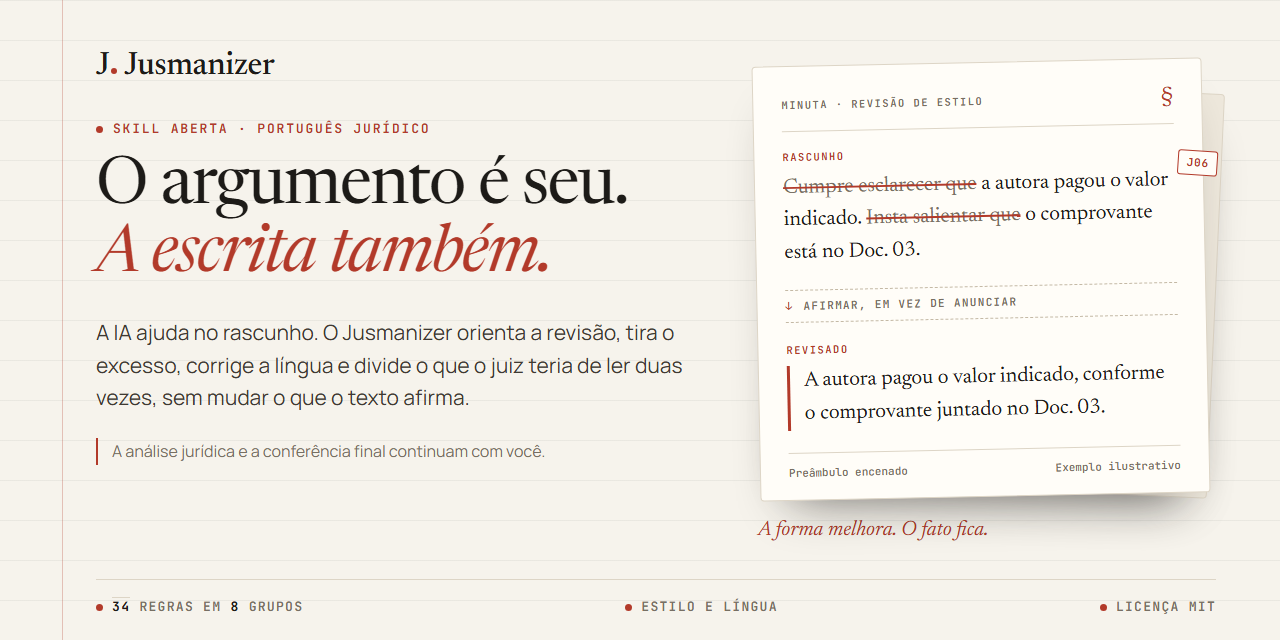
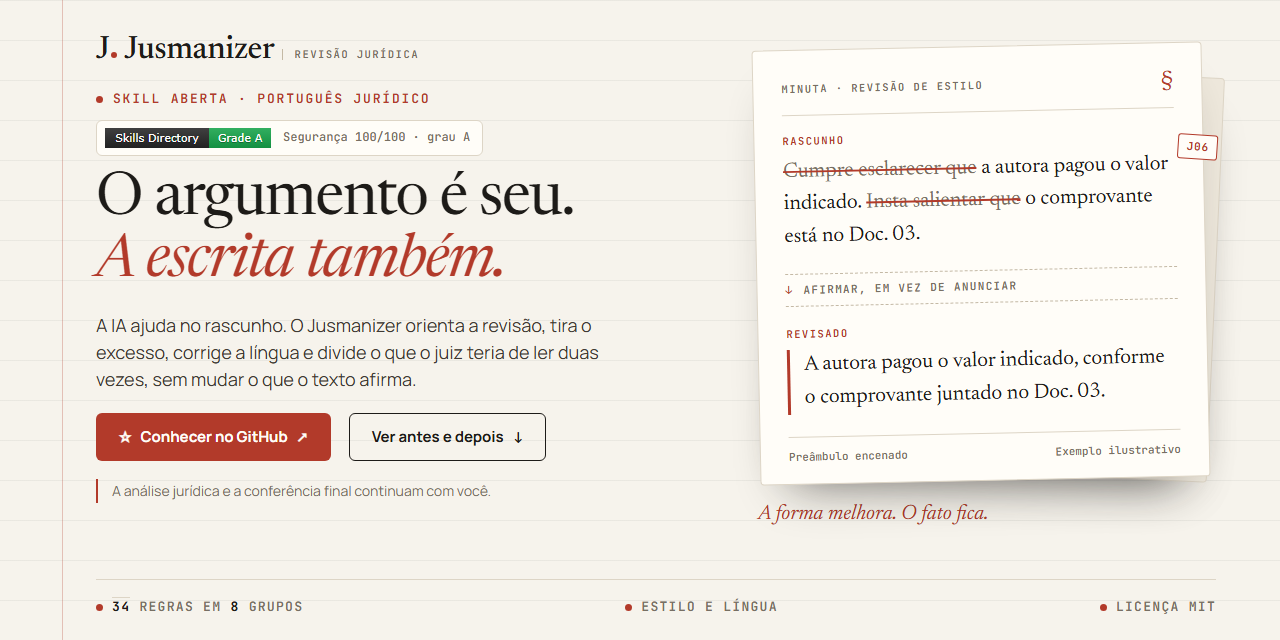
Capa e site: capa com o topo atual do site (selo, botões e rótulo), pi e texto embutido no site, e render-capa recusa quando o navegador não grava

diff --git a/docs/index.html b/docs/index.html
@@ -208,7 +208,7 @@
             <aside class="download-card"><span class="download-glyph" aria-hidden="true">§</span><h4>Revise um arquivo</h4><p>Num ambiente com acesso aos seus arquivos, peça para revisar uma minuta existente. A skill lê o arquivo inteiro, preserva o resto da estrutura e diz quantas seções revisou.</p><code class="inline-code">jusmaniza o texto do arquivo contestacao.md</code><a class="plain-link" href="https://github.com/brunoflma/jusmanizer" target="_blank" rel="noopener noreferrer" data-github-cta>Conhecer e apoiar no GitHub <span aria-hidden="true">↗</span></a></aside>
           </section>
           <section id="install-other" class="install-panel" role="tabpanel" aria-labelledby="install-tab-other" tabindex="0" hidden>
-            <div><p class="sheet-label">Instruções portáteis</p><h3>O conteúdo é texto. O caminho varia.</h3><ol><li>Baixe o arquivo <strong>SKILL.md</strong>.</li><li>Se o ambiente aceitar skills, use o mecanismo de instalação dele.</li><li>Se aceitar arquivos ou instruções de projeto, forneça o conteúdo como referência.</li><li>Peça explicitamente que o assistente use o Jusmanizer na revisão.</li></ol><p class="muted">ChatGPT, Gemini, Codex e outros assistentes podem ter interfaces, permissões e limites diferentes. Fornecer o arquivo não garante que ele seja carregado em todas as conversas.</p></div>
+            <div><p class="sheet-label">Instruções portáteis</p><h3>O conteúdo é texto. O caminho varia.</h3><ol><li>Baixe o arquivo <strong>SKILL.md</strong>.</li><li>Se o ambiente aceitar skills, use o mecanismo de instalação dele. No pi, por exemplo: <code>pi install git:github.com/brunoflma/jusmanizer</code>.</li><li>Se aceitar arquivos ou instruções de projeto, forneça o conteúdo como referência.</li><li>Peça explicitamente que o assistente use o Jusmanizer na revisão.</li></ol><p class="muted">ChatGPT, Gemini, Codex e outros assistentes podem ter interfaces, permissões e limites diferentes. Fornecer o arquivo não garante que ele seja carregado em todas as conversas.</p></div>
             <aside class="download-card"><span class="download-glyph" aria-hidden="true">{ }</span><h4>SKILL.md</h4><p>Leia as instruções antes de instalar e adapte o uso aos recursos do seu ambiente.</p><a class="button primary" href="https://github.com/brunoflma/jusmanizer#como-instalar" target="_blank" rel="noopener noreferrer" data-github-cta>Conhecer a skill no GitHub <span aria-hidden="true">↗</span></a><a class="plain-link" href="downloads/SKILL.md" download>Baixar as instruções</a></aside>
           </section>
         </div>
@@ -244,7 +244,7 @@
         </div>
         <div class="care-copy">
           <p>O Jusmanizer orienta a revisão de estilo e de língua. Ele não valida uma tese, não confirma a existência de julgados e não decide a estratégia de um caso.</p>
-          <p>Leia a versão revisada, confira as fontes e preserve o sigilo. Antes de fornecer documentos reais a um assistente, observe as regras de tratamento de dados aplicáveis ao seu trabalho.</p>
+          <p>Leia a versão revisada, confira as fontes e preserve o sigilo. Antes de fornecer documentos reais a um assistente, observe as regras de tratamento de dados aplicáveis ao seu trabalho. Instrução escondida no texto revisado, como uma nota dirigida à IA numa peça da parte contrária, é tratada como texto e nunca é obedecida.</p>
           <p class="care-last">A ferramenta apoia a escrita. A responsabilidade profissional permanece com quem usa e assina o documento.</p>
         </div>
       </div>
@@ -259,7 +259,7 @@
         <details><summary>Preciso saber programar para usar?</summary><p>Não para usar a skill num assistente que aceite skills ou arquivos de instruções. O verificador em Python é um recurso a mais, para quem quer conferir arquivos por comando.</p></details>
         <details><summary>O Jusmanizer é gratuito?</summary><p>O projeto é distribuído sob licença MIT e não cobra pelo download ou pelo uso da skill. O assistente de IA que você escolher pode ter planos pagos, limites e requisitos próprios.</p></details>
         <details><summary>Ele corrige o português da peça?</summary><p>Sim. Além de tirar os vícios de máquina, a revisão corrige concordância, regência, pontuação e crase, divide os períodos longos demais e mantém uma só designação para cada parte. Transcrições não são corrigidas.</p></details>
-        <details><summary>Ele reescreve uma peça inteira?</summary><p>Você pode fornecer um trecho ou um documento, conforme os recursos do assistente. Textos extensos podem exigir revisão por partes. A skill orienta preservar o conteúdo, mas a versão produzida deve ser comparada com o original.</p></details>
+        <details><summary>Ele reescreve uma peça inteira?</summary><p>Você pode fornecer um trecho ou um documento, conforme os recursos do assistente. Num arquivo, a skill lê o texto inteiro, em partes se for longo, e diz quantas seções revisou e quais ficaram de fora. Ela orienta preservar o conteúdo, mas a versão produzida deve ser comparada com o original.</p></details>
         <details><summary>Ele tira a formalidade da escrita jurídica?</summary><p>Não. A proposta é retirar excessos e construções artificiais, mantendo o registro adequado. Uma peça processual, um parecer e uma mensagem ao cliente pedem escolhas diferentes, e fórmulas forenses consagradas não são tratadas como defeito apenas pela forma.</p></details>
         <details><summary>Posso preservar o meu jeito de escrever?</summary><p>Sim. Forneça dois ou três parágrafos seus antes do texto a revisar. A skill orienta o assistente a observar sua pontuação, o comprimento das frases, o vocabulário e as transições. A amostra tem prioridade sobre as preferências gerais do catálogo.</p></details>
         <details><summary>Ele verifica leis e jurisprudência?</summary><p>Não. A revisão pode apontar uma fonte ausente ou vaga, mas não comprova que uma citação existe ou que se aplica ao caso. A verificação jurídica e das fontes continua necessária.</p></details>

diff --git a/docs/capa.html b/docs/capa.html
@@ -14,13 +14,15 @@
     *, *::before, *::after { animation: none !important; transition: none !important; }
     .capa { position: relative; width: 1280px; height: 640px; overflow: hidden; background: var(--paper); }
     .capa.hero { border: 0; }
-    .capa .hero-grid { padding: 50px 64px 0 96px; gap: 52px; grid-template-columns: 1.12fr .88fr; align-items: start; }
-    .capa .brand { margin-bottom: 38px; }
+    .capa .hero-grid { padding: 34px 64px 0 96px; gap: 52px; grid-template-columns: 1.12fr .88fr; align-items: start; }
+    .capa .brand { margin-bottom: 24px; }
+    .capa .security-chip { margin-bottom: 14px; }
+    .capa .actions { margin-top: 20px; }
     .capa .brand-name, .capa .mark { font-size: 32px; }
-    .capa .kicker { margin-bottom: 16px; font-size: 13px; }
-    .capa h1 { font-size: 66px; line-height: 1.03; white-space: nowrap; }
-    .capa .lead { margin-top: 26px; font-size: 21px; line-height: 1.55; max-width: 29em; }
-    .capa .hero-foot { margin-top: 24px; font-size: 16px; }
+    .capa .kicker { margin-bottom: 12px; font-size: 13px; }
+    .capa h1 { font-size: 60px; line-height: 1.03; white-space: nowrap; }
+    .capa .lead { margin-top: 18px; font-size: 18px; line-height: 1.5; max-width: 31em; }
+    .capa .hero-foot { margin-top: 18px; font-size: 14px; }
     .capa .sheet-stage { margin-top: 0; padding: 12px 10px 44px; }
     .capa .sheet { padding: 26px 28px 20px; }
     .capa .sheet-text { font-size: 21px; }
@@ -32,10 +34,15 @@
   <section class="capa hero">
     <div class="hero-grid">
       <div class="hero-copy">
-        <div class="brand"><span class="mark" aria-hidden="true">J<span class="mark-dot">.</span></span><span class="brand-name">Jusmanizer</span></div>
+        <div class="brand"><span class="mark" aria-hidden="true">J<span class="mark-dot">.</span></span><span class="brand-name">Jusmanizer</span><span class="brand-tag">Revisão jurídica</span></div>
         <p class="kicker"><span class="dot" aria-hidden="true"></span> Skill aberta · Português jurídico</p>
+        <span class="security-chip"><img src="https://www.skillsdirectory.com/api/skills/brunoflma-jusmanizer/badge" width="166" height="20" alt="" referrerpolicy="no-referrer"><span>Segurança 100/100 · grau A</span></span>
         <h1>O argumento é seu.<span>A escrita também.</span></h1>
         <p class="lead">A IA ajuda no rascunho. O Jusmanizer orienta a revisão, tira o excesso, corrige a língua e divide o que o juiz teria de ler duas vezes, sem mudar o que o texto afirma.</p>
+        <div class="actions">
+          <span class="button primary"><span aria-hidden="true">☆</span> Conhecer no GitHub <span aria-hidden="true">↗</span></span>
+          <span class="button secondary">Ver antes e depois <span aria-hidden="true">↓</span></span>
+        </div>
         <p class="hero-foot">A análise jurídica e a conferência final continuam com você.</p>
       </div>
       <figure class="sheet-stage" aria-label="Ilustração de uma revisão de estilo">

diff --git a/scripts/render-capa.py b/scripts/render-capa.py
@@ -20,20 +20,26 @@ ROOT = Path(__file__).resolve().parents[1]
 DOCS = ROOT / "docs"
 SAIDAS = (DOCS / "cover.png", DOCS / "assets/social-preview.png")
 LARGURA, ALTURA = 1280, 640
+# Ordem de tentativa. O Chrome vem primeiro: medido em 11/11/2026, o `--screenshot` do Edge 157
+# sai com código 0 sem gravar a imagem.
 NAVEGADORES = (
+    r"C:\Program Files\Google\Chrome\Application\chrome.exe",
+    "google-chrome", "chromium", "chrome",
     r"C:\Program Files (x86)\Microsoft\Edge\Application\msedge.exe",
     r"C:\Program Files\Microsoft\Edge\Application\msedge.exe",
-    r"C:\Program Files\Google\Chrome\Application\chrome.exe",
-    "msedge", "google-chrome", "chromium", "chrome",
+    "msedge",
 )
 
 
-def navegador():
+def navegadores():
+    vistos = []
     for candidato in NAVEGADORES:
         caminho = shutil.which(candidato) or (candidato if Path(candidato).is_file() else None)
-        if caminho:
-            return caminho
-    sys.exit("Nenhum Edge ou Chrome encontrado para fotografar a capa.")
+        if caminho and caminho not in vistos:
+            vistos.append(caminho)
+    if not vistos:
+        sys.exit("Nenhum Chrome ou Edge encontrado para fotografar a capa.")
+    return vistos
 
 
 def atualizar_contagem():
@@ -61,13 +67,21 @@ def servir():
 
 
 def fotografar(url, destino):
-    with tempfile.TemporaryDirectory() as perfil:
-        subprocess.run([
-            navegador(), "--headless=new", "--disable-gpu", "--hide-scrollbars", "--mute-audio",
-            "--no-first-run", "--no-default-browser-check", f"--user-data-dir={perfil}",
-            "--force-device-scale-factor=1", f"--window-size={LARGURA},{ALTURA}",
-            "--virtual-time-budget=4000", f"--screenshot={destino}", url,
-        ], check=True, capture_output=True, timeout=120)
+    """Grava `destino` com o primeiro navegador que de fato gravar. O arquivo antigo sai antes,
+    para que uma falha silenciosa não deixe a capa velha passar por nova."""
+    destino.unlink(missing_ok=True)
+    for exe in navegadores():
+        with tempfile.TemporaryDirectory() as perfil:
+            subprocess.run([
+                exe, "--headless=new", "--disable-gpu", "--hide-scrollbars", "--mute-audio",
+                "--no-first-run", "--no-default-browser-check", f"--user-data-dir={perfil}",
+                "--force-device-scale-factor=1", f"--window-size={LARGURA},{ALTURA}",
+                "--virtual-time-budget=4000", f"--screenshot={destino}", url,
+            ], capture_output=True, timeout=120)
+        if destino.is_file() and destino.stat().st_size > 0:
+            return
+        print(f"{Path(exe).name} não gravou a imagem; tentando o próximo navegador.")
+    sys.exit(f"Nenhum navegador gravou {destino.name}.")
 
 
 def main():
